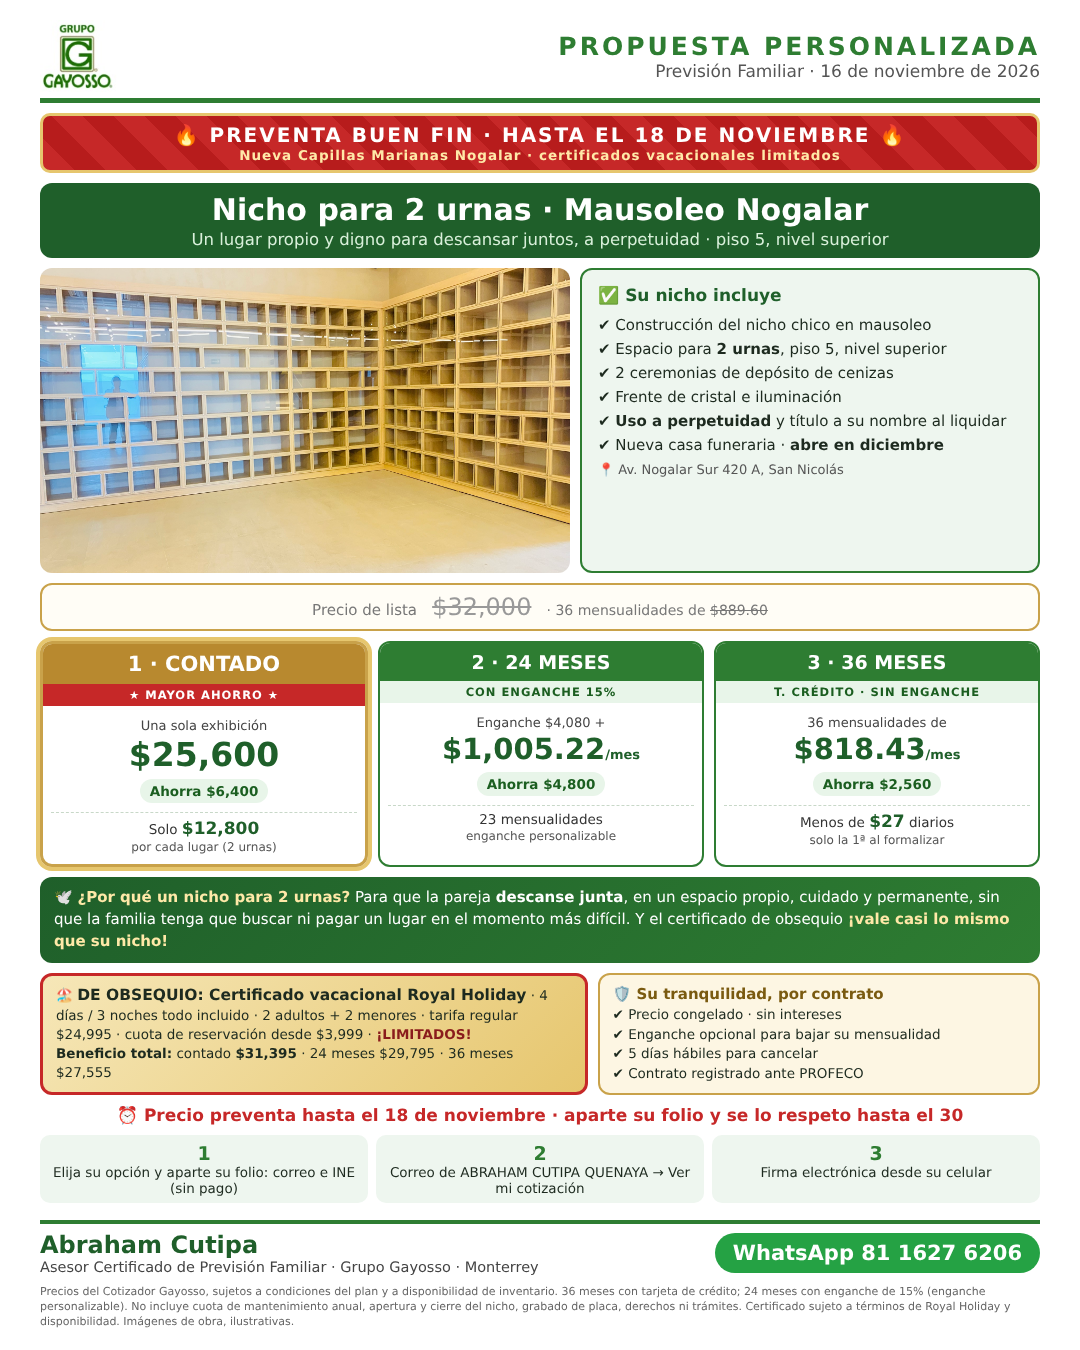
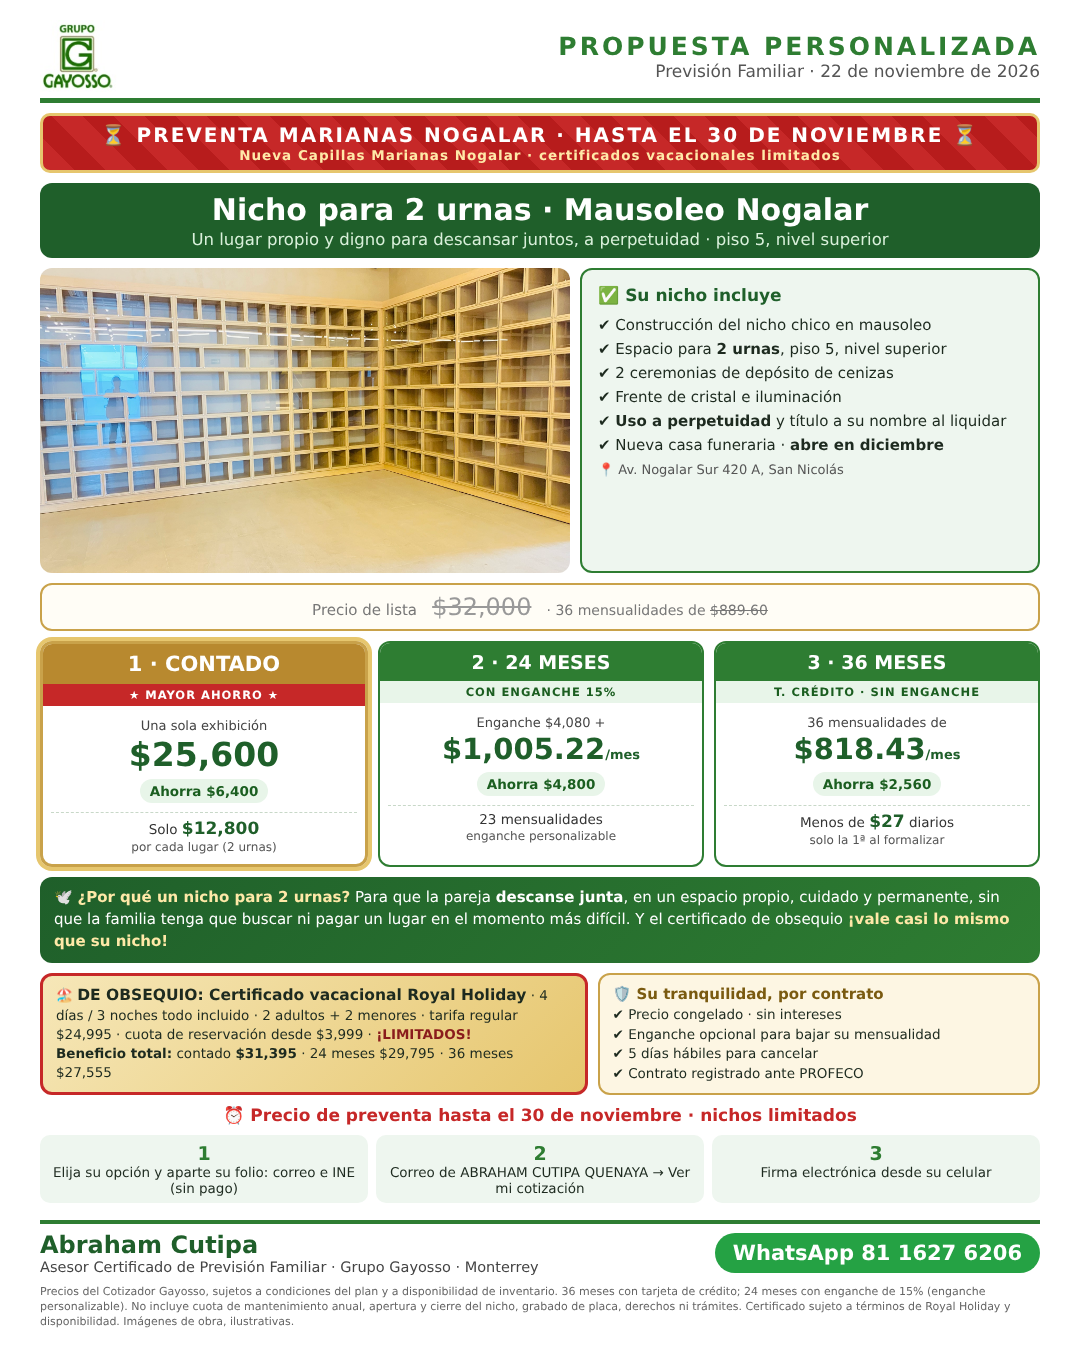
Nichos Nogalar: vigencia 30-nov y fecha de hoy
Claude-Session: https://claude.ai/code/session_01PccRGVGwaaPKDitcWkgoNs

Changed region(s): [[0.0917, 0.8089, 0.8861, 0.84], [0.0917, 0.0933, 0.8556, 0.1244], [0.8861, 0.0933, 0.9167, 0.1244]]

diff --git a/propuesta/nicho_chico_nogalar_sup.html b/propuesta/nicho_chico_nogalar_sup.html
@@ -27,7 +27,7 @@
 .fine{font-size:11px;color:#666;line-height:1.35}
 </style></head><body><div class="wrap">
 <div class="top"><img src="logo.jpg"><div><div class="k">PROPUESTA PERSONALIZADA</div><div class="d">Previsión Familiar · 11 de noviembre de 2026</div></div></div>
-<div class="rib">🔥 PREVENTA BUEN FIN · HASTA EL 18 DE NOVIEMBRE 🔥<small>Nueva Capillas Marianas Nogalar · certificados vacacionales limitados</small></div>
+<div class="rib">⏳ PREVENTA MARIANAS NOGALAR · HASTA EL 30 DE NOVIEMBRE ⏳<small>Nueva Capillas Marianas Nogalar · certificados vacacionales limitados</small></div>
 <div class="band"><div class="t">Nicho para 2 urnas · Mausoleo Nogalar</div><div class="s">Un lugar propio y digno para descansar juntos, a perpetuidad · piso 5, nivel superior</div></div>
 <div class="hero">
  <div class="ph"><img src="nogalar_nichos3.jpg"></div>
@@ -50,7 +50,7 @@
  <div class="gift">🏖 <b class="t">DE OBSEQUIO: Certificado vacacional Royal Holiday</b> · 4 días / 3 noches todo incluido · 2 adultos + 2 menores · tarifa regular $24,995 · cuota de reservación desde $3,999 · <b style="color:#8a1c1c">¡LIMITADOS!</b><br><b>Beneficio total:</b> contado <b>$31,395</b> · 24 meses $29,795 · 36 meses $27,555</div>
  <div class="tr"><b style="color:#7a5a10;font-size:15px">🛡 Su tranquilidad, por contrato</b><br>✔ Precio congelado · sin intereses<br>✔ Enganche opcional para bajar su mensualidad<br>✔ 5 días hábiles para cancelar<br>✔ Contrato registrado ante PROFECO</div>
 </div>
-<div class="vig">⏰ Precio preventa hasta el 18 de noviembre · aparte su folio y se lo respeto hasta el 30</div>
+<div class="vig">⏰ Precio de preventa hasta el 30 de noviembre · nichos limitados</div>
 <div class="steps"><div><b class="n">1</b>Elija su opción y aparte su folio: correo e INE (sin pago)</div><div><b class="n">2</b>Correo de ABRAHAM CUTIPA QUENAYA → Ver mi cotización</div><div><b class="n">3</b>Firma electrónica desde su celular</div></div>
 <div class="foot"><div><div class="n">Abraham Cutipa</div><div class="r">Asesor Certificado de Previsión Familiar · Grupo Gayosso · Monterrey</div></div><div class="w">WhatsApp 81 1627 6206</div></div>
 <div class="fine">Precios del Cotizador Gayosso, sujetos a condiciones del plan y a disponibilidad de inventario. 36 meses con tarjeta de crédito; 24 meses con enganche de 15% (enganche personalizable). No incluye cuota de mantenimiento anual, apertura y cierre del nicho, grabado de placa, derechos ni trámites. Certificado sujeto a términos de Royal Holiday y disponibilidad. Imágenes de obra, ilustrativas.</div>
